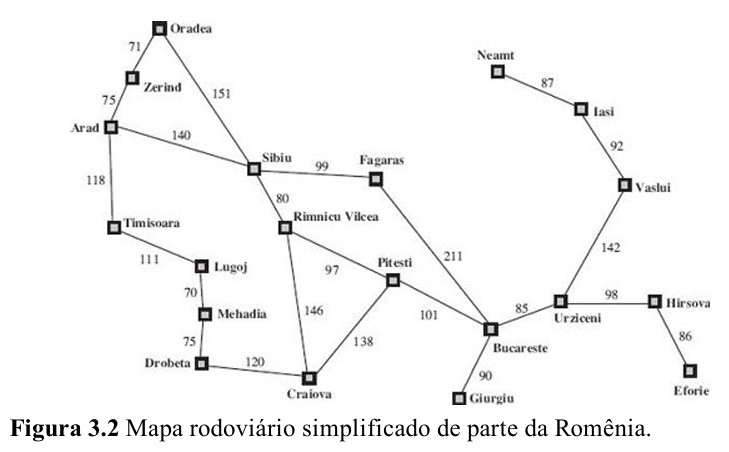
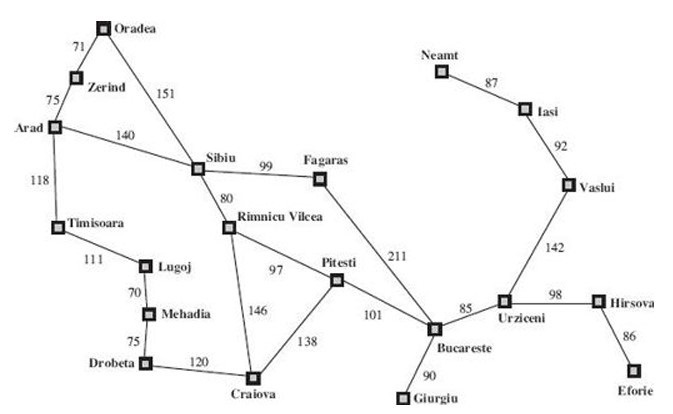
mudança nas visualizações

Changed region(s): [[0.0, 0.029, 0.9985, 0.9855], [0.6241, 0.1159, 0.9361, 0.6377], [0.5617, 0.4928, 0.5929, 0.5507]]

diff --git a/src/visualizacao.py b/src/visualizacao.py
@@ -4,18 +4,55 @@ import matplotlib.pyplot as plt
 def visualizar_grafo(grafo, caminho=None):
     G = nx.Graph()
 
+    # Adiciona todas as arestas ao grafo
     for cidade in grafo:
         for vizinho, distancia in grafo[cidade].items():
             G.add_edge(cidade, vizinho, weight=distancia)
 
+    # Layout dos nós (posicionamento)
     pos = nx.spring_layout(G)
-    nx.draw(G, pos, with_labels=True, node_size=700, node_color='lightblue')
     
+    # Paleta de cores distinta para os nós
+    cmap = plt.get_cmap('tab20')  # Paleta com 20 cores bem distintas
+    cores_nos = {
+        cidade: cmap(i % 20)  # Atribui cores distintas usando uma paleta maior
+        for i, cidade in enumerate(grafo)
+    }
+
+    # Desenhar nós com cores únicas
+    nx.draw_networkx_nodes(
+        G, pos, node_size=700, node_color=[cores_nos[cidade] for cidade in G.nodes()]
+    )
+    
+    # Desenhar as arestas normais (não percorridas)
+    nx.draw_networkx_edges(G, pos, width=2)
+
+    # Adicionar rótulos aos nós (nomes das cidades)
+    nx.draw_networkx_labels(G, pos, font_size=10, font_color="black")
+
+    # Adicionar rótulos de peso (distância) nas arestas normais
     labels = nx.get_edge_attributes(G, 'weight')
     nx.draw_networkx_edge_labels(G, pos, edge_labels=labels)
 
+    # Se houver um caminho a ser visualizado, destacamos as arestas percorridas
     if caminho:
-        caminho_edges = list(zip(caminho, caminho[1:]))
-        nx.draw_networkx_edges(G, pos, edgelist=caminho_edges, edge_color='r', width=2)
+        caminho_edges = list(zip(caminho, caminho[1:]))  # Cria pares de nós para formar as arestas do caminho
 
+        # Desenhar as arestas percorridas em vermelho
+        nx.draw_networkx_edges(
+            G, pos, edgelist=caminho_edges, edge_color='r', width=4  # Destaque em vermelho
+        )
+
+        # Corrigir os rótulos de todas as arestas do caminho percorrido
+        caminho_labels = {}
+        for edge in caminho_edges:
+            if edge in labels:
+                caminho_labels[edge] = labels[edge]
+            elif (edge[1], edge[0]) in labels:  # Verifica a direção inversa da aresta
+                caminho_labels[edge] = labels[(edge[1], edge[0])]
+
+        # Adicionar rótulos de peso (distância) nas arestas percorridas
+        nx.draw_networkx_edge_labels(G, pos, edge_labels=caminho_labels, font_color='red')  # Rótulos em vermelho
+
+    plt.title("Visualização do Grafo e Caminho Percorrido")
     plt.show()
